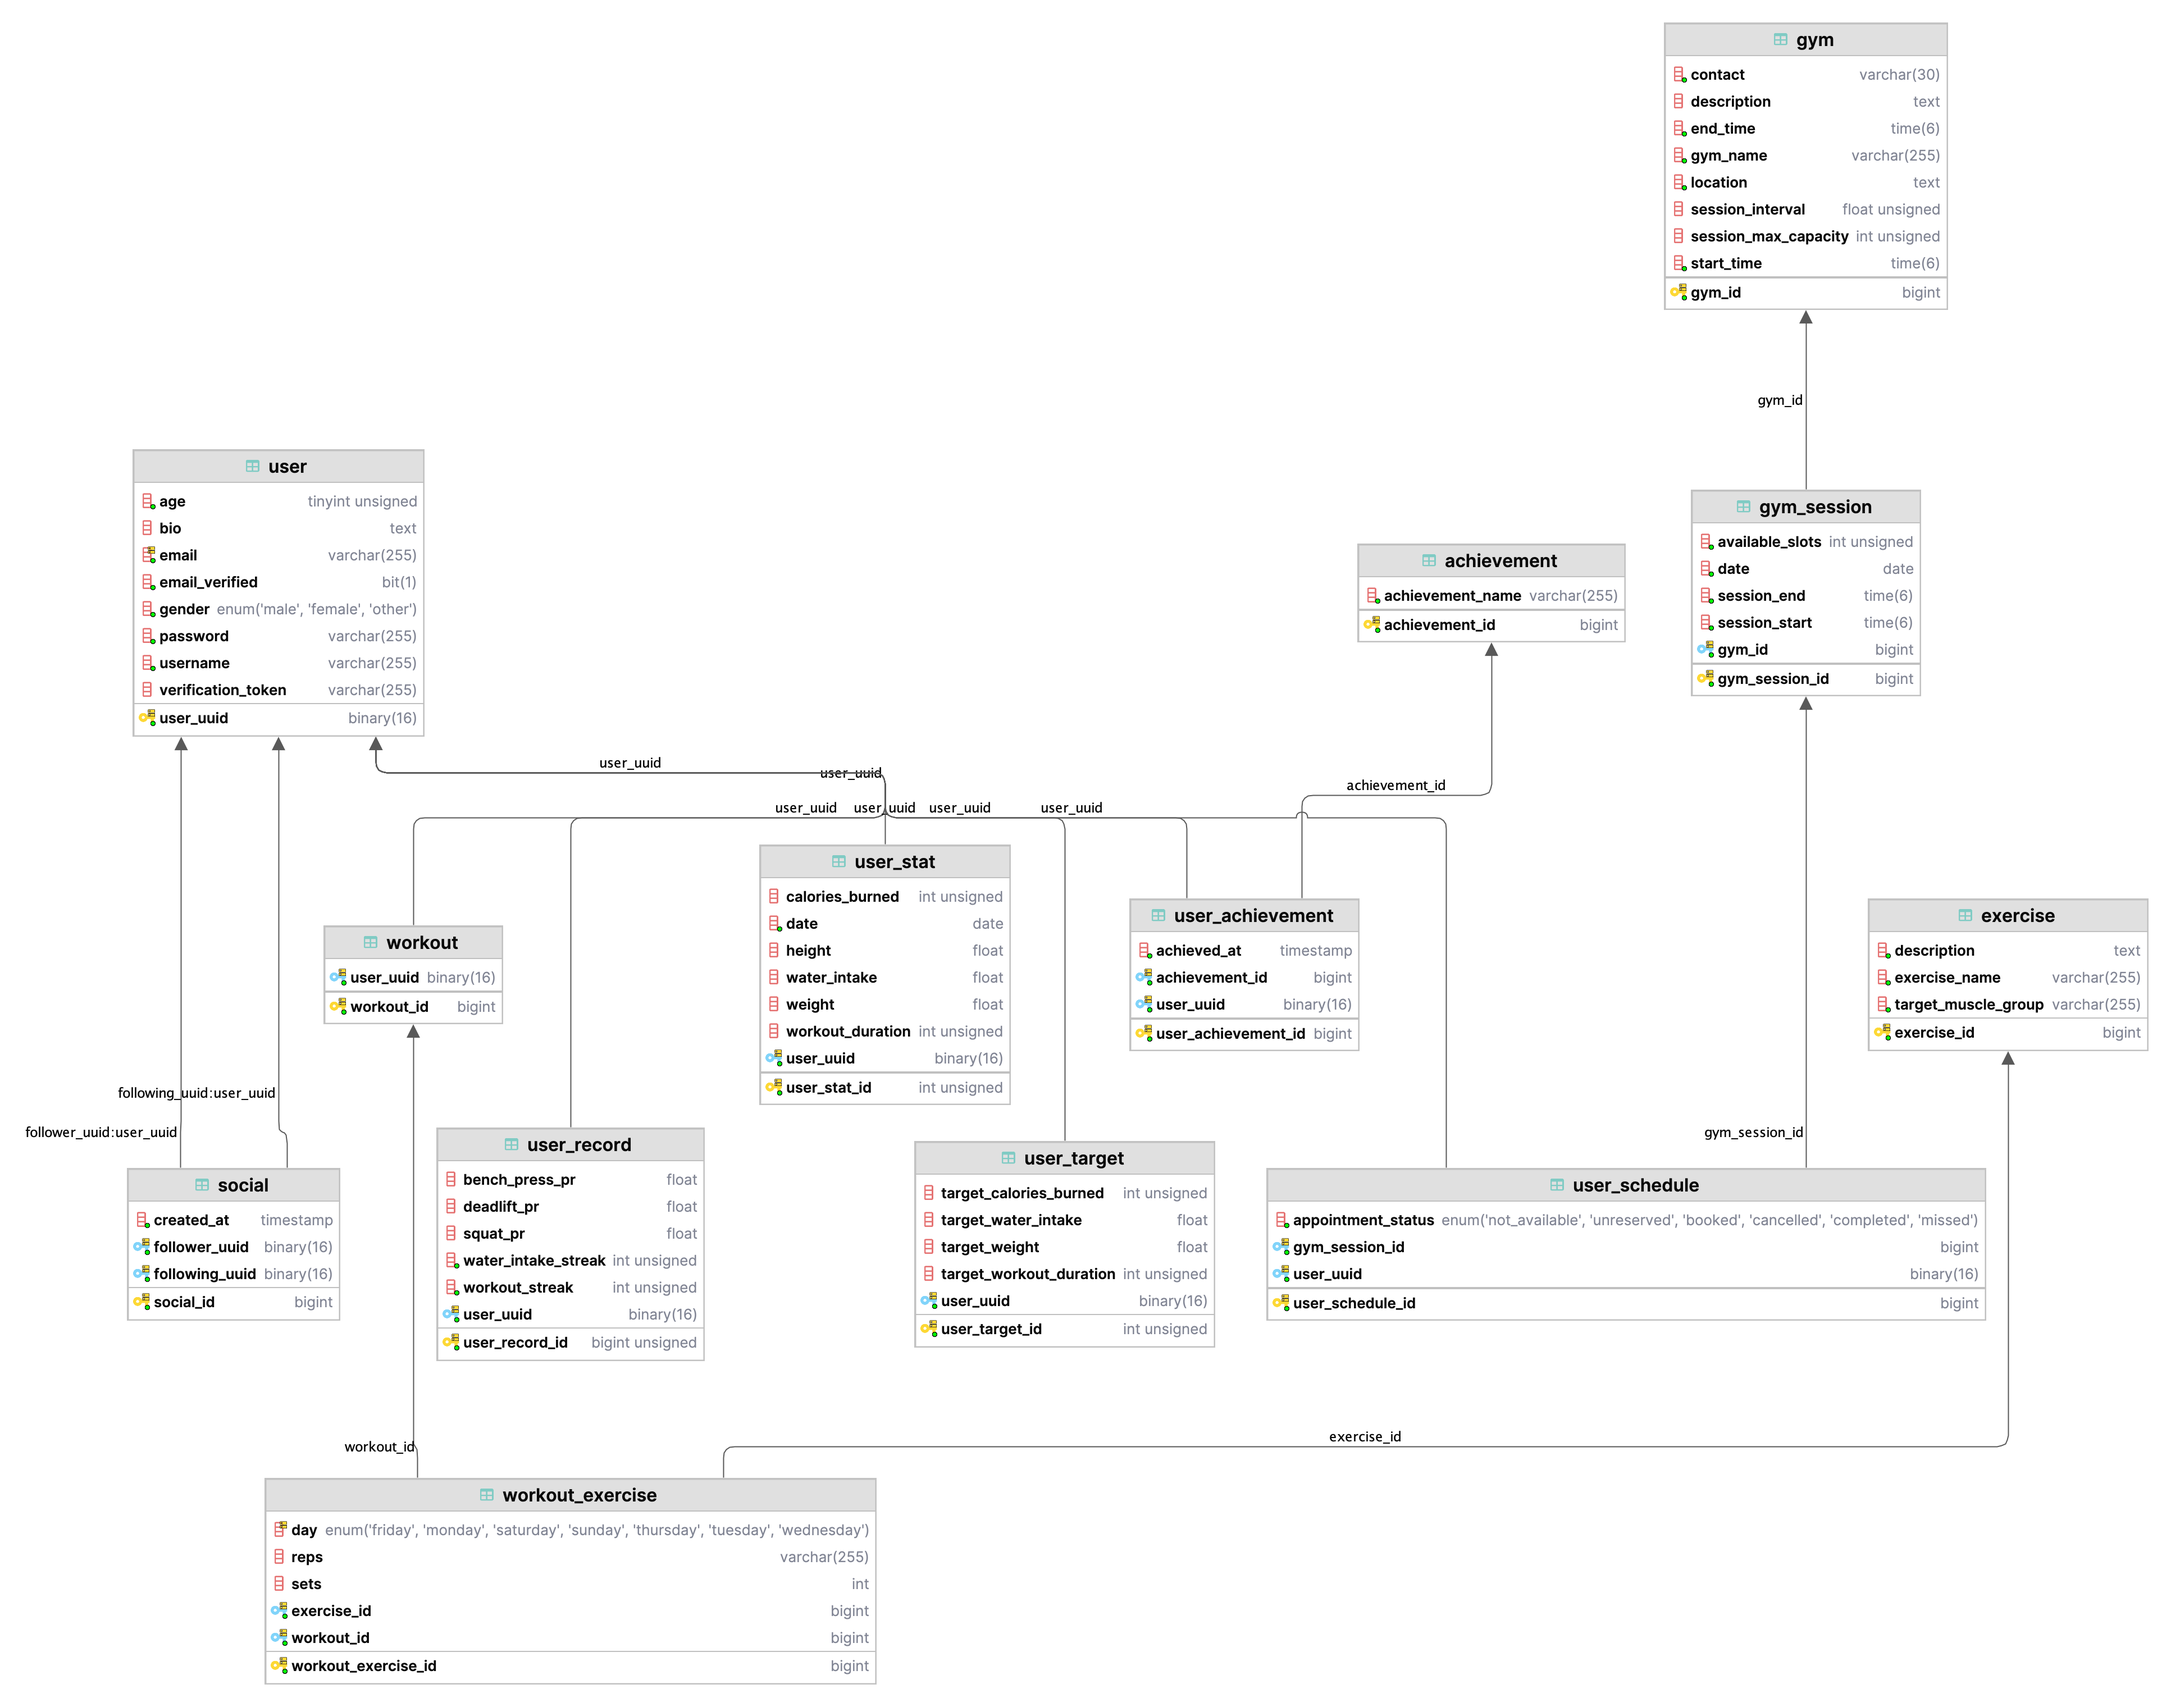
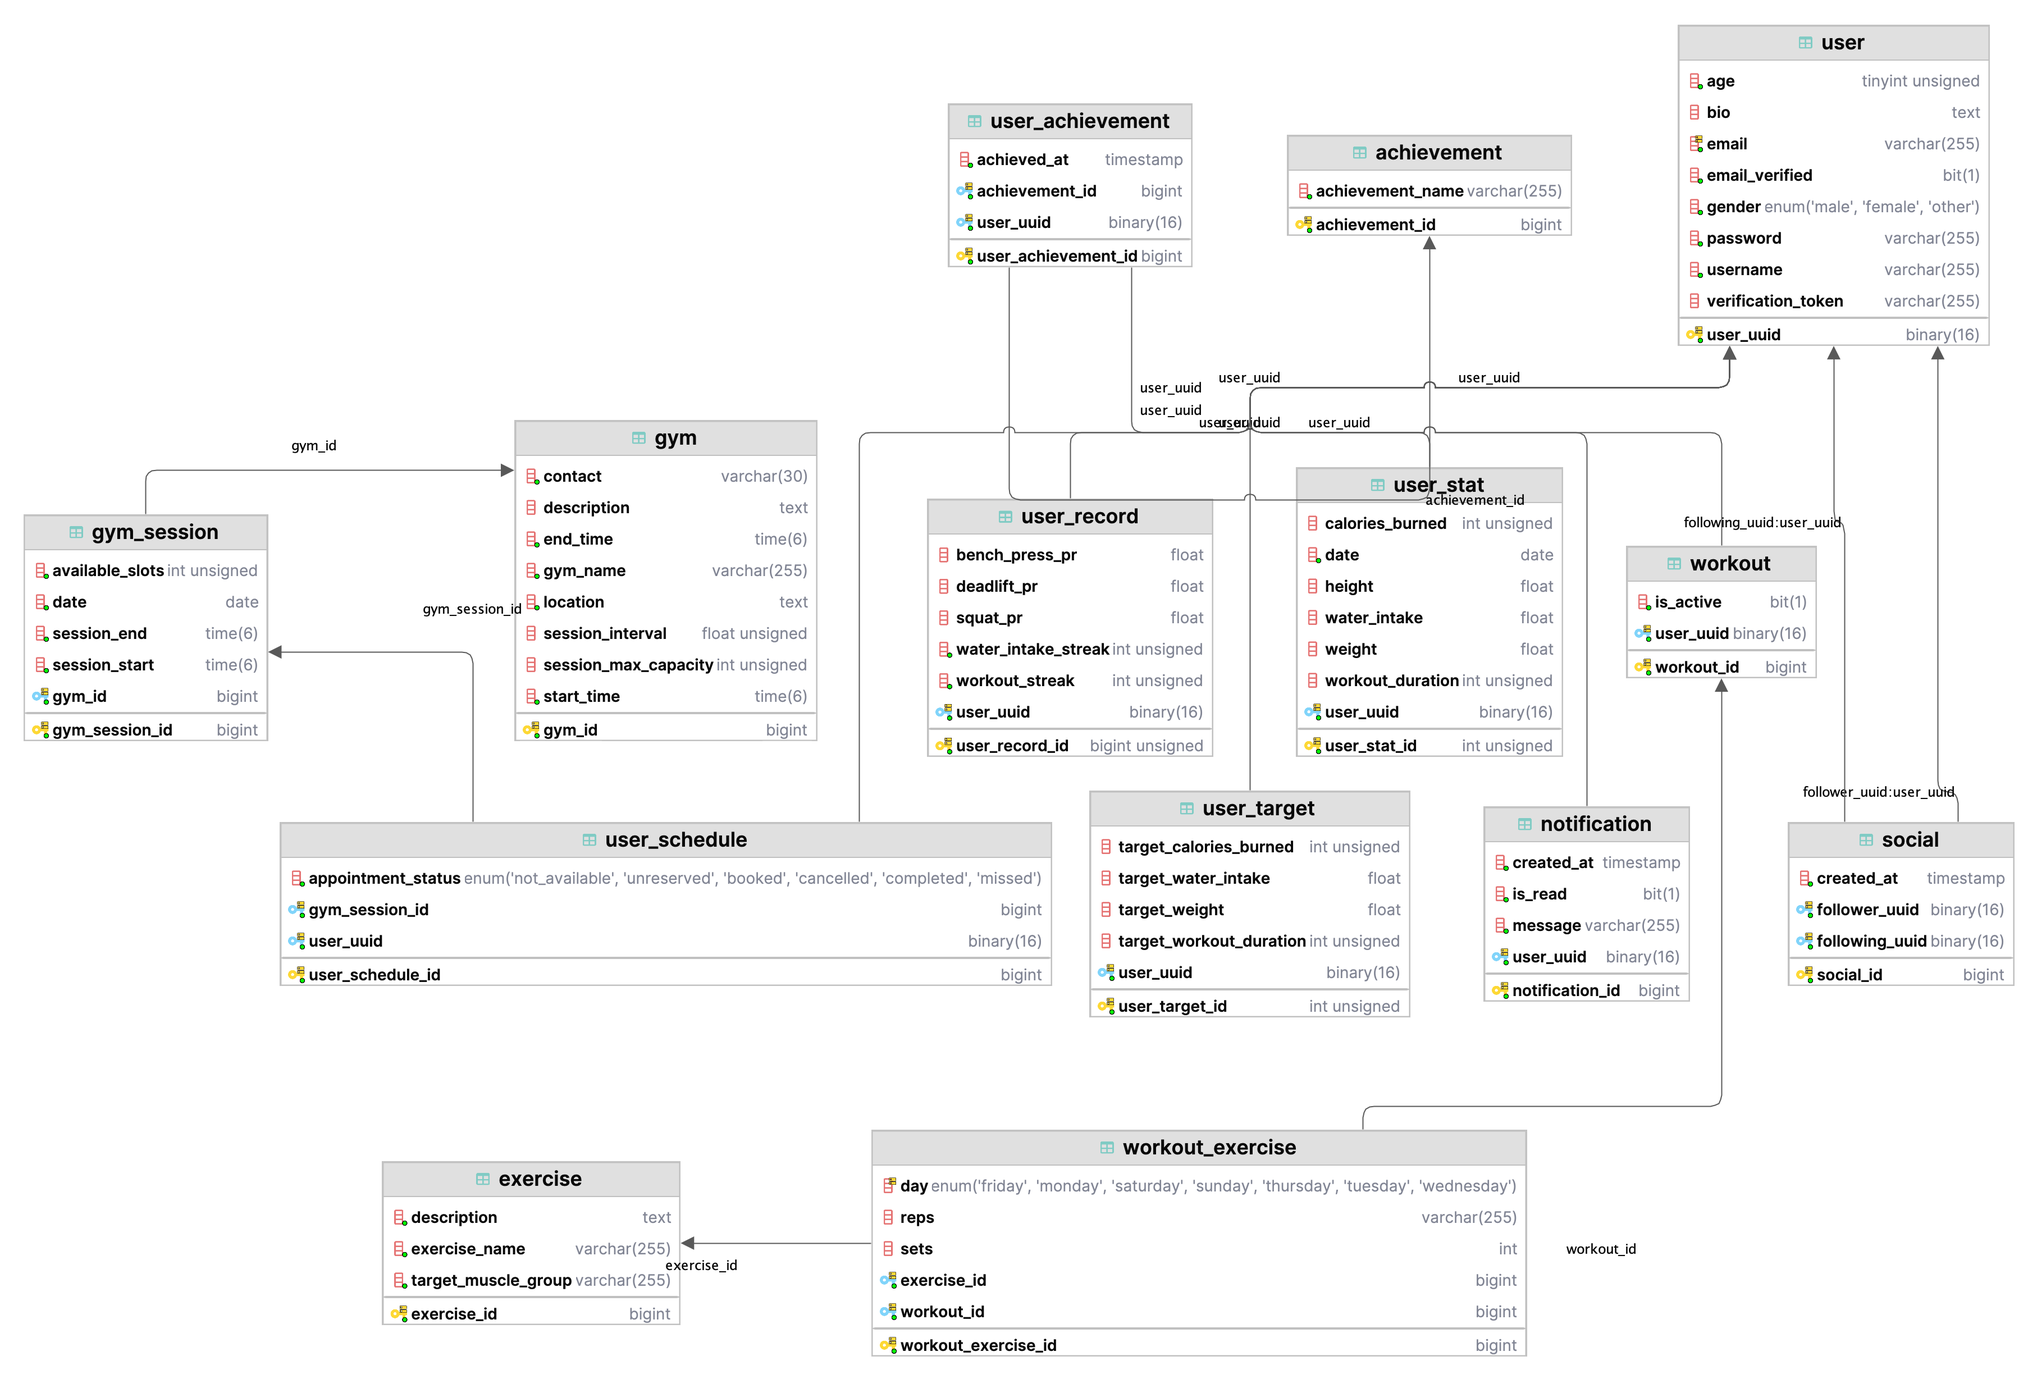
Update sprint 1 report

diff --git a/peakform/src/test/java/com/sustech/cs304/project/peakform/PeakFormApplicationTests.java b/peakform/src/test/java/com/sustech/cs304/project/peakform/PeakFormApplicationTests.java
@@ -33,6 +33,7 @@ class PeakFormApplicationTests extends AbstractTestContainerConfig {
                 "exercise",
                 "gym",
                 "gym_session",
+                "notification",
                 "social",
                 "user",
                 "user_achievement",
@@ -47,7 +48,7 @@ class PeakFormApplicationTests extends AbstractTestContainerConfig {
         List<String> actualTables = jdbcTemplate.queryForList(
                 "SHOW TABLES FROM peakform_test", String.class);
 
-        assertEquals(13, actualTables.size(), "Expected exactly 13 tables");
+        assertEquals(14, actualTables.size(), "Expected exactly 13 tables");
         assertTrue(new HashSet<>(actualTables).containsAll(expectedTables),
                 "All expected tables should be present: " + expectedTables);
     }

diff --git a/reports/design-86.md b/reports/design-86.md
@@ -25,33 +25,22 @@ This report outlines the work completed during **Sprint 1** of our team project.
 - **Description**:  
   The architecture of the system is designed to handle various aspects of a fitness application, focusing on managing users, workouts, gym sessions, achievements, and other fitness-related data. The key components of the system include:
 
-  - **User**: Represents the user of the system, storing information such as personal details, authentication credentials, and user-specific data.
-    - Attributes: `user_uuid`, `age`, `bio`, `email`, `password`, `username`, etc.
+  - **achievement**: Stores predefined fitness achievements that users can unlock through progress or milestones.
+    
+    - **exercise**: Contains a list of exercises, including their name, category, and description.
+    - **gym**: Represents individual gym locations, including details like name, address, and facilities.
+    - **gym_session**: Tracks user bookings and attendance for scheduled gym sessions at specific times.
+    - **notification**: Stores system-generated notifications to be sent to users (e.g., reminders, updates).
+    - **social**: Manages social interactions between users, such as followers, friends, or shared activities.
+    - **user**: Holds account credentials and personal information for all users of the system.
+    - **user_achievement**: Logs the achievements unlocked by users, including the date earned.
+    - **user_record**: Tracks personal bests or historical data like max weights, longest runs, etc.
+    - **user_schedule**: Maintains users’ scheduled gym visits or planned workouts by date and time.
+    - **user_stat**: Stores daily or periodic fitness statistics like calories burned, water intake, and steps taken.
+    - **user_target**: Contains personalized fitness goals set by users, such as target weight or workout frequency.
+    - **workout**: Represents a full workout session logged by a user, including total time and calories burned.
+    - **workout_exercise**: Links individual exercises to a specific workout with details like sets, reps, and weight used.
   
-  - **Workout**: Stores workout-related data for each user, including calories burned, weight, height, and workout duration.
-    - Attributes: `workout_id`, `user_uuid`, `workout_duration`, `calories_burned`, `workout_type`, etc.
-
-  - **Achievement**: Tracks the achievements users earn based on specific milestones or goals.
-    - Attributes: `achievement_id`, `achievement_name`, `user_achievement_id`.
-
-  - **Gym**: Represents gyms where users may participate in sessions or workouts.
-    - Attributes: `gym_id`, `location`, `contact`, `max_capacity`, etc.
-
-  - **Exercise**: Represents exercises in the system, targeting specific muscle groups.
-    - Attributes: `exercise_id`, `exercise_name`, `target_muscle_group`, etc.
-
-  - **User Schedule**: Keeps track of user appointments and their statuses in relation to gym sessions.
-    - Attributes: `user_schedule_id`, `gym_session_id`, `appointment_status`, etc.
-
-  - **User Target**: Represents user-specific goals such as weight target, workout duration, and others.
-    - Attributes: `user_target_id`, `target_weight`, `target_duration`, etc.
-
-  - **User Stat**: Stores statistical data related to the user's fitness, such as calories burned, height, weight, and workout statistics.
-    - Attributes: `user_stat_id`, `calories_burned`, `height`, `weight`, etc.
-
-  - **User Achievement**: Stores records of achievements tied to a specific user.
-    - Attributes: `user_achievement_id`, `achievement_id`, `user_uuid`, `achieved_at`.
-
   The interactions between these components allow the system to track and manage user fitness data, achievements, gym sessions, and progress toward goals. The structure ensures modularity and flexibility, supporting future enhancements.
 
 - **Reasons for Choosing This Architecture**:  
